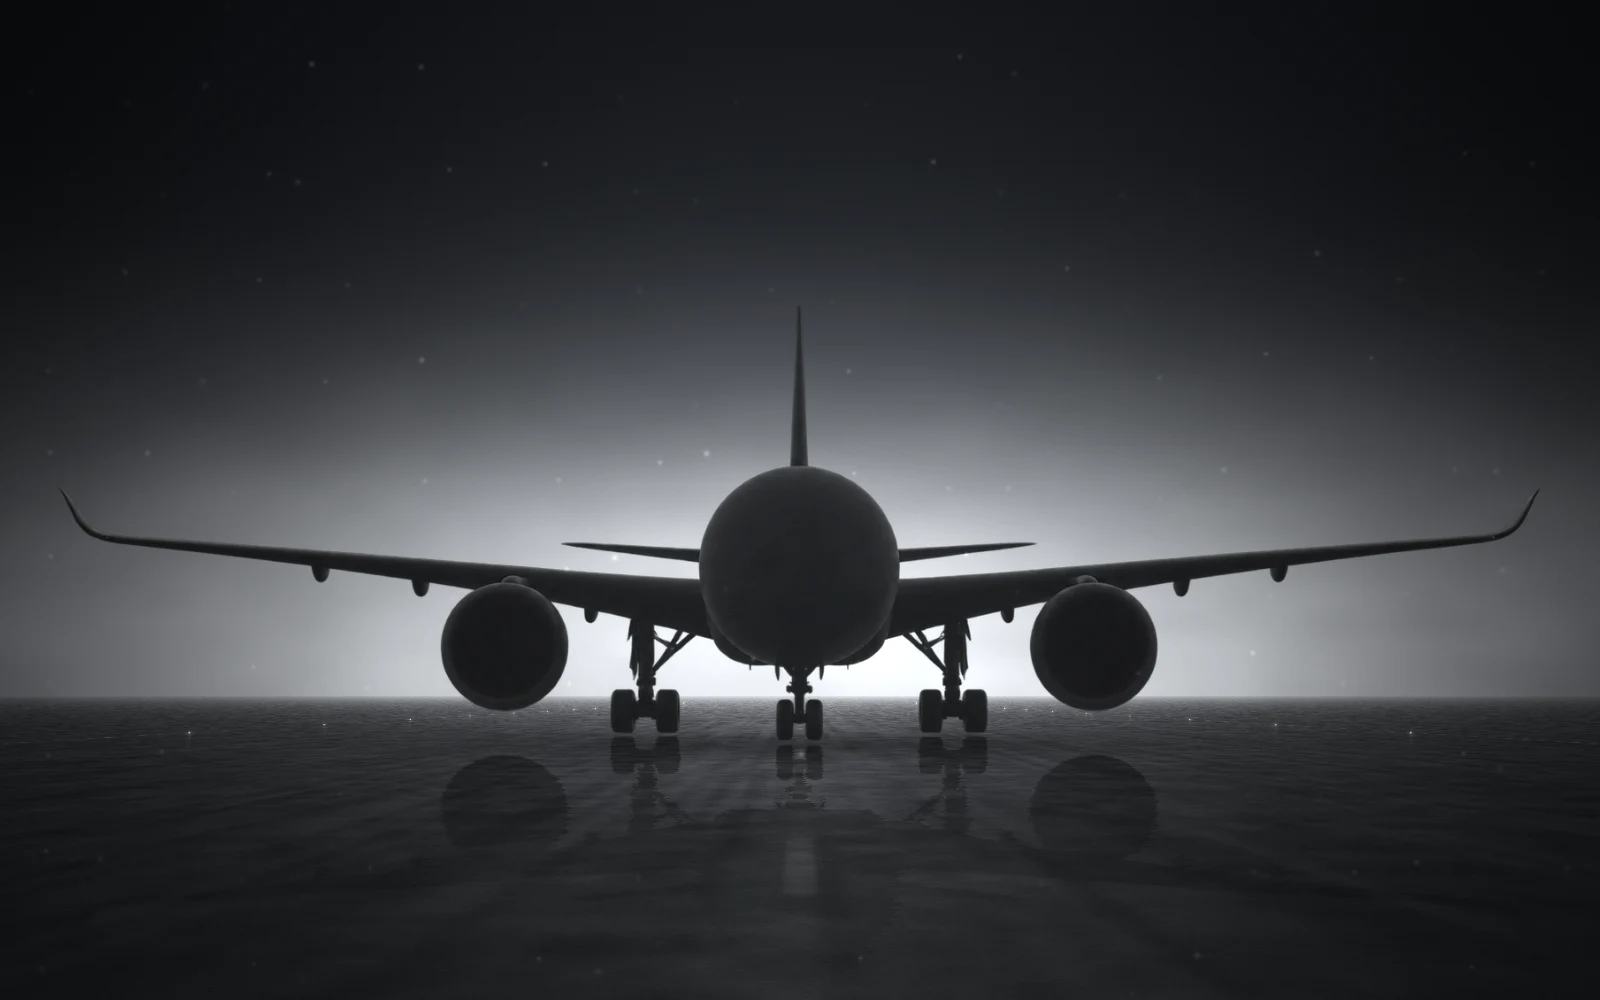
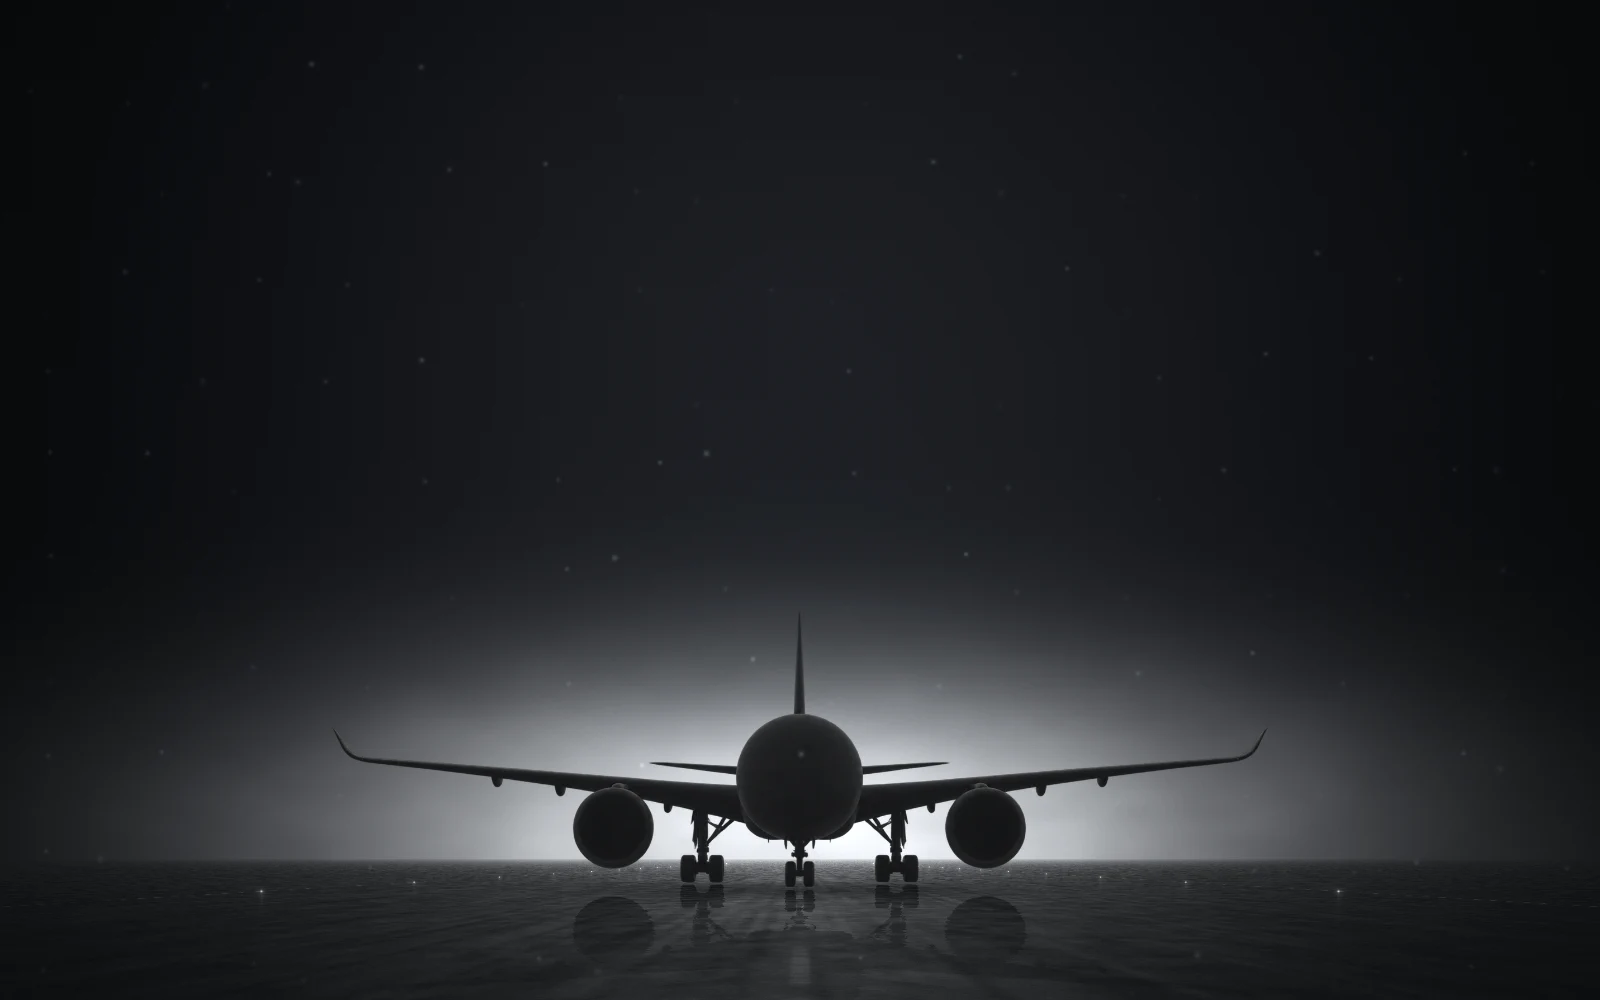
feat: 缩小跑道场景并加入合作标题与联系按钮

diff --git a/index.html b/index.html
@@ -338,9 +338,9 @@
   <script src="button-motion.js?v=aqua-nav" type="module"></script>
   <link rel="stylesheet" href="deep-focus.css?v=focus-title-glow">
   <link rel="stylesheet" href="download.css?v=sky-meteor">
-  <link rel="stylesheet" href="gift.css?v=runway-descent">
+  <link rel="stylesheet" href="gift.css?v=runway-contact">
   <link rel="stylesheet" href="mobile.css" media="(max-width: 520px)">
-  <script src="sky.js?v=corner-press" type="module"></script>
+  <script src="sky.js?v=runway-contact" type="module"></script>
   <script src="showcase.js?v=device-ink" type="module"></script>
 </head>
 <body>
@@ -573,8 +573,8 @@
           <span class="gift-print sharing-print"></span>
         </div>
         <picture class="runway-poster" aria-hidden="true">
-          <source media="(max-aspect-ratio: 4/5)" srcset="gift/runway-portrait.webp">
-          <img src="gift/runway.webp" width="1600" height="1000" alt="" decoding="async" loading="lazy">
+          <source media="(max-aspect-ratio: 4/5)" srcset="gift/runway-portrait.webp?v=contact">
+          <img src="gift/runway.webp?v=contact" width="1600" height="1000" alt="" decoding="async" loading="lazy">
         </picture>
         <canvas class="gift-camera" aria-hidden="true"></canvas>
       </div>
@@ -590,7 +590,18 @@
         <button type="button" aria-label="关闭">×</button>
       </dialog>
     </section>
-    <section id="runway" class="runway" lang="zh-CN" tabindex="-1" aria-label="逆光中的客机与跑道"></section>
+    <section id="runway" class="runway" lang="en" data-copy-motion="soft-type" tabindex="-1" aria-labelledby="runway-title">
+      <div class="runway-copy" inert>
+        <h2 id="runway-title">Help FocusFlight land in more places.</h2>
+        <a class="runway-contact aqua-button" href="mailto:support@focus.flights">
+          <svg class="aqua-button-surface" aria-hidden="true" focusable="false">
+            <rect fill="#68778b" fill-opacity=".16" transform="translate(0 1.25)"/>
+            <rect fill="url(#device-glass-tone)" stroke="#a9b3c3" stroke-opacity=".3" stroke-width=".65" filter="url(#device-aqua)"/>
+          </svg>
+          Contact us
+        </a>
+      </div>
+    </section>
   </main>
 </body>
 </html>

diff --git a/gift.css b/gift.css
@@ -144,7 +144,60 @@
   .gift-camera { visibility: hidden; }
 }
 
-.runway { height: 100dvh; outline: none; }
+.runway {
+  position: relative;
+  z-index: 2;
+  height: 100dvh;
+  outline: none;
+  pointer-events: none;
+  color: #f5f5f3;
+}
+.runway-copy {
+  position: absolute;
+  top: 41%;
+  inset-inline: max(5vw, env(safe-area-inset-left), env(safe-area-inset-right));
+  display: grid;
+  justify-items: center;
+  gap: clamp(16px, 3dvh, 36px);
+  text-align: center;
+  visibility: hidden;
+  opacity: var(--copy-presence, 0);
+  transform: translateY(calc(-50% + var(--camera-offset, 0dvh)));
+}
+.runway[data-copy-visible] .runway-copy { visibility: visible; }
+.runway-copy h2 {
+  margin: 0;
+  max-width: 18ch;
+  font-size: clamp(36px, min(6vw, 9.6dvh), 116px);
+  font-weight: 600;
+  line-height: 1.04;
+  letter-spacing: -.05em;
+  text-wrap: balance;
+}
+.runway-contact {
+  --contact-height: clamp(44px, 3.7vw, 56px);
+  --aqua-radius: calc(var(--contact-height) / 2 - 1px);
+  display: inline-grid;
+  place-items: center;
+  min-height: var(--contact-height);
+  padding-inline: clamp(21px, 1.8vw, 34px);
+  border-radius: 999px;
+  color: #191b1e;
+  font-size: clamp(16px, 1.25vw, 22px);
+  font-weight: 600;
+  letter-spacing: -.02em;
+  text-decoration: none;
+  opacity: var(--contact-presence, 0);
+}
+.runway-copy:not([inert]) .runway-contact { pointer-events: auto; }
+.runway-contact:focus-visible { outline: 2px solid white; outline-offset: 4px; }
+@media (prefers-reduced-motion: no-preference) {
+  .runway[data-copy-visible] h2 { animation: flight-type 1350ms linear both; }
+}
+@media (max-height: 480px) and (orientation: landscape) {
+  .runway-copy { top: 39%; gap: 10px; }
+  .runway-copy h2 { max-width: 28ch; font-size: clamp(26px, 7.5dvh, 36px); }
+}
 .runway-poster { position: absolute; inset: 0; opacity: var(--runway-arrival, 0); }
 .runway-poster img { width: 100%; height: 100%; object-fit: cover; }
 .gift-letter-poster .gift-print {

diff --git a/gift.js b/gift.js
@@ -1,10 +1,22 @@
-import { setupStudio, framingOffset } from "./gift/camera.js?v=corner-press";
+import { setupStudio, framingOffset } from "./gift/camera.js?v=runway-contact";
 import { prepareCopy } from "./motion-copy.js";
 
 export function setupGiftDescent(download, gift, windowFlight, ease, cameraTravel) {
   const sequence = gift.parentElement;
   const content = download.querySelector(".download-layout");
   const night = gift.querySelector(".gift-night");
+  const runway = document.getElementById("runway");
+  const runwayCopy = runway.querySelector(".runway-copy");
+  prepareCopy(runwayCopy.querySelector("h2"));
+
+  function revealRunwayCopy(approach, landing) {
+    runway.toggleAttribute("data-copy-visible", approach >= .47);
+    runway.style.setProperty("--copy-presence", ease(.46,.74,approach));
+    runway.style.setProperty("--contact-presence", ease(.60,.90,approach));
+    runway.style.setProperty("--camera-offset", (landing-1)*100 + "dvh");
+    runwayCopy.inert = approach < 1;
+  }
+
   const render = setupStudio(gift.querySelector(".gift-camera"), download);
 
   const letter = document.querySelector("#letter");
@@ -86,6 +98,7 @@ export function setupGiftDescent(download, gift, windowFlight, ease, cameraTrave
     gift.style.setProperty("--letter-poster", ease(.18,.84,phase));
     const landing = sample(approach);
     gift.style.setProperty("--runway-arrival", landing);
+    revealRunwayCopy(approach, landing);
     render(1,1,lift,slip,landing);
   }
 
@@ -96,6 +109,7 @@ export function setupGiftDescent(download, gift, windowFlight, ease, cameraTrave
     gift.removeAttribute("data-airborne");
     gift.style.removeProperty("--letter-poster");
     gift.style.removeProperty("--runway-arrival");
+    revealRunwayCopy(0, 0);
     render(1,1);
   }
 

diff --git a/gift/camera.js b/gift/camera.js
@@ -178,7 +178,7 @@ async function prepare(gl, hover = new Float32Array(9)) {
   const [invitation,floor,plane,runwaySource]=await Promise.all([
     readImage("invitation.webp?v=lit-cards"),readImage("graphite.webp"),
     readImage("../aircraft/deep-focus-front.webp"),
-    fetch(new URL("./runway.glsl",import.meta.url)).then(response=>{
+    fetch(new URL("./runway.glsl?v=contact",import.meta.url)).then(response=>{
       if (!response.ok) throw Error("Runway lighting could not load");
       return response.text();
     }),

diff --git a/sky.js b/sky.js
@@ -1,4 +1,4 @@
-import { setupGiftDescent } from "./gift.js?v=corner-press";
+import { setupGiftDescent } from "./gift.js?v=runway-contact";
 import { setupWindowFlight } from "./window-flight.js?v=sky-meteor";
 import { setupFocusRipple } from "./focus-ripple.js";
 import { setupPortholeSky } from "./porthole/sky.js?v=ascent";
